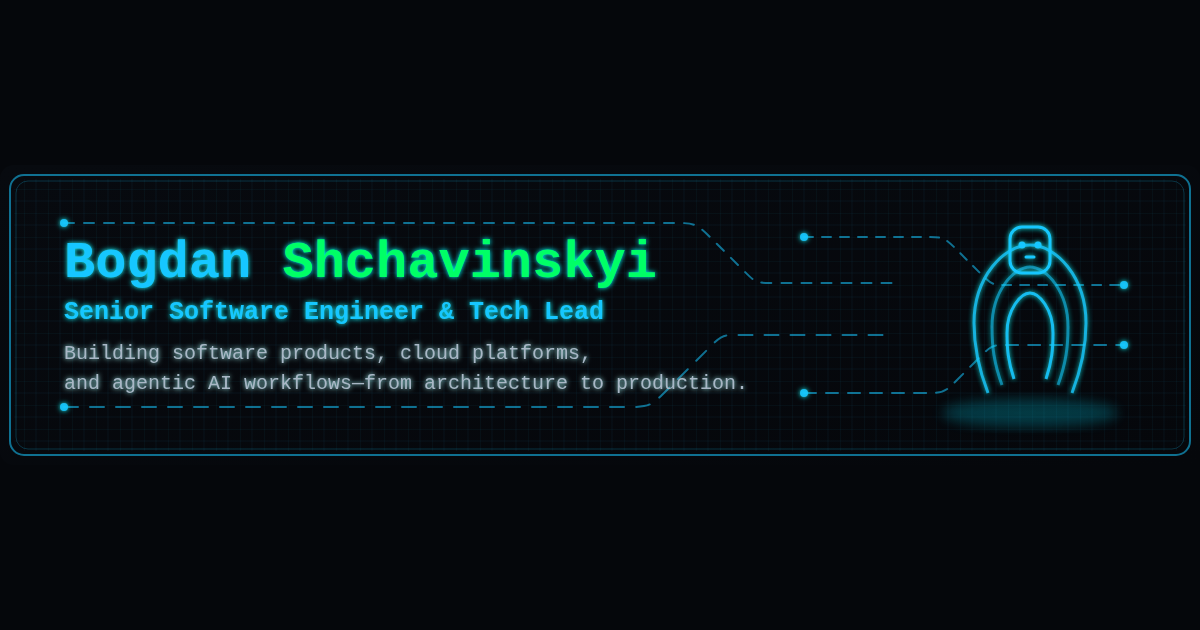
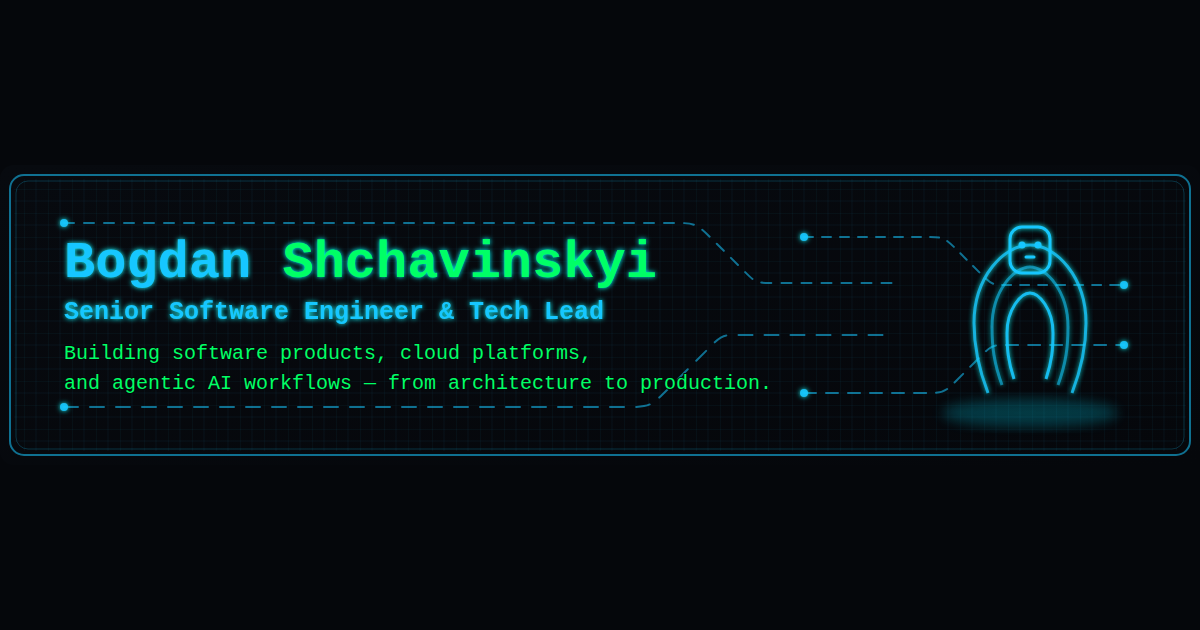
refine header contrast and keep the profile in whoami

Changed region(s): [[0.0308, 0.5429, 0.6475, 0.6333]]

diff --git a/src/modules/terminal/commands/resumeCommand.tsx b/src/modules/terminal/commands/resumeCommand.tsx
@@ -3,16 +3,10 @@ import Link from '@mui/material/Link';
 import Typography from '@mui/material/Typography';
 
 import { appConfig, profile } from '@/config';
-import { contentHref } from '@/modules/navigation';
 
 import type { CommandHandler } from '../types';
 import { commandStyles } from './styles';
 import { resumeStyles } from './resumeStyles';
-
-const certifications = [
-  { image: 'cka.svg', title: 'Certified Kubernetes Administrator (CKA)' },
-  { image: 'ckad.svg', title: 'Certified Kubernetes Application Developer (CKAD)' },
-] as const;
 
 export const resumeCommand: CommandHandler = () => {
   return (
@@ -38,78 +32,6 @@ export const resumeCommand: CommandHandler = () => {
           [View LinkedIn profile]
         </Link>
       </Box>
-      <Typography sx={commandStyles.text}>
-        8+ years building software, with experience leading engineering teams. I work across product
-        development, architecture, cloud infrastructure, and production delivery, with a focus on
-        clear design, performance, and reliability.
-      </Typography>
-      <Typography component="h2" sx={resumeStyles.sectionTitle}>
-        What I work on
-      </Typography>
-      <Box component="ul" sx={resumeStyles.list}>
-        <li>
-          <strong>Software products & technical leadership:</strong> system design, hands-on
-          implementation, code reviews, and delivery across engineering teams.
-        </li>
-        <li>
-          <strong>Platform engineering & DevOps:</strong> Kubernetes, AWS, CI/CD, observability, and
-          reliable releases.
-        </li>
-        <li>
-          <strong>Agentic AI workflows:</strong> local models, coding-agent integrations, custom MCP
-          tools, web search, and repository knowledge retrieval.
-        </li>
-      </Box>
-      <Typography component="h2" sx={resumeStyles.sectionTitle}>
-        Main technologies
-      </Typography>
-      <Typography sx={commandStyles.text}>
-        TypeScript · Node.js · Go · React · AWS · Kubernetes · PostgreSQL · MongoDB · Redis ·
-        RabbitMQ · Prometheus · Grafana
-      </Typography>
-      <Typography component="h2" sx={resumeStyles.sectionTitle}>
-        Selected impact
-      </Typography>
-      <Box component="ul" sx={resumeStyles.list}>
-        <li>
-          Approximately $200K/year saved by replacing DocuSign with an in-house eSignature
-          application I took over and later led.
-        </li>
-        <li>
-          PDF generation reduced from around 2 minutes to 20 seconds by rewriting an AWS Lambda from
-          Node.js to Go.
-        </li>
-      </Box>
-      <Typography component="h2" sx={resumeStyles.sectionTitle}>
-        Certifications
-      </Typography>
-      <Typography sx={commandStyles.muted}>CNCF / The Linux Foundation</Typography>
-      <Box sx={resumeStyles.certifications}>
-        {certifications.map(({ image, title }) => (
-          <Box component="figure" key={image} sx={resumeStyles.certification}>
-            <Box
-              component="img"
-              src={`${appConfig.basePath}certifications/${image}`}
-              alt={title}
-              width={96}
-              height={96}
-              sx={resumeStyles.badge}
-            />
-            <Box component="figcaption">{title}</Box>
-          </Box>
-        ))}
-      </Box>
-      <Typography sx={commandStyles.text}>
-        See what I build in{' '}
-        <Link href={contentHref('projects')} sx={commandStyles.link}>
-          projects
-        </Link>
-        , or read my{' '}
-        <Link href={contentHref('blog')} sx={commandStyles.link}>
-          technical notes
-        </Link>
-        .
-      </Typography>
     </Box>
   );
 };

diff --git a/src/modules/terminal/commands/whoamiCommand.tsx b/src/modules/terminal/commands/whoamiCommand.tsx
@@ -1,7 +1,7 @@
 import Box from '@mui/material/Box';
 import Typography from '@mui/material/Typography';
 
-import { profile } from '@/config';
+import { appConfig, profile } from '@/config';
 
 import type { CommandHandler } from '../types';
 import { whoamiStyles } from './whoamiStyles';
@@ -14,13 +14,14 @@ const expertiseSections = [
     topics: ['Architecture', 'Performance', 'Scalability', 'Production reliability'],
   },
   {
-    title: '[ BACKEND & PLATFORM ]',
+    title: '[ SOFTWARE & PLATFORM ENGINEERING ]',
     description:
-      'I build backend services and operate cloud infrastructure, from event-driven integrations and databases to Kubernetes deployments, CI/CD, and observability.',
+      'I build applications and backend services and operate cloud infrastructure. My platform engineering and DevOps work covers Kubernetes deployments, CI/CD, and observability.',
     topics: [
       'TypeScript',
       'Node.js',
       'Go',
+      'React',
       'AWS',
       'Kubernetes',
       'PostgreSQL',
@@ -42,14 +43,11 @@ const expertiseSections = [
       'MCP integrations',
     ],
   },
-  {
-    title: '[ CERTIFICATIONS ]',
-    description: 'CNCF / The Linux Foundation',
-    topics: [
-      'Certified Kubernetes Administrator (CKA)',
-      'Certified Kubernetes Application Developer (CKAD)',
-    ],
-  },
+] as const;
+
+const certifications = [
+  { image: 'cka.svg', title: 'Certified Kubernetes Administrator (CKA)' },
+  { image: 'ckad.svg', title: 'Certified Kubernetes Application Developer (CKAD)' },
 ] as const;
 
 const impactHighlights = [
@@ -83,8 +81,8 @@ export const whoamiCommand: CommandHandler = () => {
           performance, scalability, and production reliability.
         </Typography>
         <Typography sx={whoamiStyles.paragraph}>
-          This is where I share projects, technical notes, and lessons from building and running
-          software.
+          I work end to end, from product requirements and architecture through implementation,
+          delivery, and operation.
         </Typography>
       </Box>
 
@@ -103,6 +101,28 @@ export const whoamiCommand: CommandHandler = () => {
           </Box>
         </Box>
       ))}
+
+      <Box component="section" sx={whoamiStyles.section}>
+        <Typography component="h3" sx={whoamiStyles.sectionTitle}>
+          [ CERTIFICATIONS ]
+        </Typography>
+        <Typography sx={whoamiStyles.paragraph}>CNCF / The Linux Foundation</Typography>
+        <Box sx={whoamiStyles.certifications}>
+          {certifications.map(({ image, title }) => (
+            <Box component="figure" key={image} sx={whoamiStyles.certification}>
+              <Box
+                component="img"
+                src={`${appConfig.basePath}certifications/${image}`}
+                alt={title}
+                width={96}
+                height={96}
+                sx={whoamiStyles.badge}
+              />
+              <Box component="figcaption">{title}</Box>
+            </Box>
+          ))}
+        </Box>
+      </Box>
 
       <Box component="section" sx={whoamiStyles.section}>
         <Typography component="h3" sx={whoamiStyles.sectionTitle}>

diff --git a/index.html b/index.html
@@ -33,7 +33,7 @@
     <meta property="og:image:height" content="630" />
     <meta
       property="og:image:alt"
-      content="Bogdan Shchavinskyi — Senior Software Engineer &amp; Tech Lead — Building software products, cloud platforms, and agentic AI workflows—from architecture to production."
+      content="Bogdan Shchavinskyi — Senior Software Engineer &amp; Tech Lead — Building software products, cloud platforms, and agentic AI workflows — from architecture to production."
     />
     <meta name="twitter:card" content="summary_large_image" />
     <meta
@@ -47,7 +47,7 @@
     <meta name="twitter:image" content="https://master-bogdan.github.io/social-preview.png" />
     <meta
       name="twitter:image:alt"
-      content="Bogdan Shchavinskyi — Senior Software Engineer &amp; Tech Lead — Building software products, cloud platforms, and agentic AI workflows—from architecture to production."
+      content="Bogdan Shchavinskyi — Senior Software Engineer &amp; Tech Lead — Building software products, cloud platforms, and agentic AI workflows — from architecture to production."
     />
     <script type="application/ld+json">
       {
@@ -85,8 +85,8 @@
           performance, scalability, and production reliability.
         </p>
         <p>
-          Building software products, cloud platforms, and agentic AI workflows—from architecture to
-          production.
+          Building software products, cloud platforms, and agentic AI workflows — from architecture
+          to production.
         </p>
         <p>Projects, technical notes, and lessons from building and running software.</p>
         <p>

diff --git a/src/modules/terminal/components/Terminal/__tests__/routes.test.tsx b/src/modules/terminal/components/Terminal/__tests__/routes.test.tsx
@@ -45,16 +45,16 @@ describe('Terminal public routes', () => {
     expect(screen.getByRole('heading', { name: 'Neovim Practice' })).toBeInTheDocument();
   });
 
-  it('shows a short resume, local certification images, and a stable PDF download', () => {
+  it('keeps the resume focused on the CV and LinkedIn links', () => {
     render(<Terminal initialPath="/resume/" />);
     expect(screen.getByRole('heading', { name: 'Bogdan Shchavinskyi' })).toBeInTheDocument();
-    expect(screen.getByText('Platform engineering & DevOps:')).toBeInTheDocument();
-    expect(
-      screen.getByRole('img', { name: 'Certified Kubernetes Administrator (CKA)' }),
-    ).toHaveAttribute('src', '/certifications/cka.svg');
-    expect(
-      screen.getByRole('img', { name: 'Certified Kubernetes Application Developer (CKAD)' }),
-    ).toHaveAttribute('src', '/certifications/ckad.svg');
+    expect(screen.queryByText('What I work on')).not.toBeInTheDocument();
+    expect(screen.queryByText('Main technologies')).not.toBeInTheDocument();
+    expect(screen.queryByText('Certifications')).not.toBeInTheDocument();
+    expect(screen.getByRole('link', { name: '[View LinkedIn profile]' })).toHaveAttribute(
+      'href',
+      'https://www.linkedin.com/in/b-shchavinskyi-fullstack',
+    );
     expect(screen.getByRole('link', { name: '[Download PDF]' })).toHaveAttribute(
       'download',
       'Bogdan_Shchavinskyi_CV.pdf',

diff --git a/e2e/static-pages.e2e.spec.ts b/e2e/static-pages.e2e.spec.ts
@@ -66,15 +66,12 @@ test('includes all content URLs in the generated sitemap and serves certificatio
     expect(xml).toContain(`<loc>https://master-bogdan.github.io/${pathname}</loc>`);
   }
   await page.goto('resume/');
-  for (const name of [
-    'Certified Kubernetes Administrator (CKA)',
-    'Certified Kubernetes Application Developer (CKAD)',
-  ]) {
-    const image = page.getByRole('img', { name, exact: true });
-    await expect(image).toBeVisible();
-    const src = await image.getAttribute('src');
-    expect(src).toContain('/certifications/');
-    const response = await request.get(src!);
+  await expect(page.getByRole('link', { name: '[Download PDF]' })).toBeVisible();
+  await expect(page.getByRole('link', { name: '[View LinkedIn profile]' })).toBeVisible();
+  await expect(page.getByText('Certifications', { exact: true })).toHaveCount(0);
+  for (const filename of ['cka.svg', 'ckad.svg']) {
+    const imageUrl = new URL(`../certifications/${filename}`, page.url());
+    const response = await request.get(imageUrl.href);
     expect(response.status()).toBe(200);
     expect(response.headers()['content-type']).toContain('image/svg+xml');
   }

diff --git a/src/modules/terminal/components/Terminal/__tests__/Terminal.test.tsx b/src/modules/terminal/components/Terminal/__tests__/Terminal.test.tsx
@@ -68,6 +68,13 @@ describe('Terminal', () => {
     expect(screen.getByText('~8 GB → 700 MB')).toBeInTheDocument();
     expect(screen.getByText(/application I took over and later led/)).toBeInTheDocument();
     expect(screen.getByText('MCP integrations')).toBeInTheDocument();
+    expect(screen.getByText('React')).toBeInTheDocument();
+    expect(
+      screen.getByRole('img', { name: 'Certified Kubernetes Administrator (CKA)' }),
+    ).toHaveAttribute('src', '/certifications/cka.svg');
+    expect(
+      screen.getByRole('img', { name: 'Certified Kubernetes Application Developer (CKAD)' }),
+    ).toHaveAttribute('src', '/certifications/ckad.svg');
     expect(screen.getByText('Certified Kubernetes Administrator (CKA)')).toBeInTheDocument();
     expect(
       screen.getByText('Certified Kubernetes Application Developer (CKAD)'),

diff --git a/src/modules/terminal/commands/resumeStyles.ts b/src/modules/terminal/commands/resumeStyles.ts
@@ -10,15 +10,4 @@ export const resumeStyles = {
   name: { fontFamily: 'var(--font-mono)', fontSize: '18px', color: ThemeColors.CYAN, mb: 0.5 },
   role: { fontFamily: 'var(--font-mono)', fontSize: '14px', color: ThemeColors.GREEN, mb: 1.5 },
   links: { display: 'flex', flexWrap: 'wrap', gap: 2, my: 1.5 },
-  sectionTitle: {
-    fontFamily: 'var(--font-mono)',
-    fontSize: '15px',
-    color: ThemeColors.CYAN,
-    mt: 2.5,
-    mb: 1,
-  },
-  list: { pl: 2.5, mt: 0, '& li': { mb: 1 } },
-  certifications: { display: 'flex', flexWrap: 'wrap', gap: 3, my: 2 },
-  certification: { m: 0, maxWidth: '220px', fontSize: '12px' },
-  badge: { display: 'block', mb: 1 },
 } as const;

diff --git a/e2e/terminal.e2e.spec.ts b/e2e/terminal.e2e.spec.ts
@@ -32,7 +32,7 @@ test('boots, accepts keyboard commands, and opens a Markdown post', async ({ pag
 
   await expect(
     page.getByAltText(
-      'Bogdan Shchavinskyi — Senior Software Engineer & Tech Lead — Building software products, cloud platforms, and agentic AI workflows—from architecture to production.',
+      'Bogdan Shchavinskyi — Senior Software Engineer & Tech Lead — Building software products, cloud platforms, and agentic AI workflows — from architecture to production.',
     ),
   ).toHaveAttribute('src', new URL('banner.svg', siteUrl).pathname);
 

diff --git a/src/config/profile.ts b/src/config/profile.ts
@@ -2,7 +2,7 @@ export const profile = {
   name: 'Bogdan Shchavinskyi',
   role: 'Senior Software Engineer & Tech Lead',
   tagline:
-    'Building software products, cloud platforms, and agentic AI workflows—from architecture to production.',
+    'Building software products, cloud platforms, and agentic AI workflows — from architecture to production.',
   description:
     "Bogdan Shchavinskyi's engineering portfolio and blog: software products, cloud platforms, DevOps, platform engineering, and agentic AI workflows.",
   url: 'https://master-bogdan.github.io/',

diff --git a/src/modules/terminal/components/Banner/__tests__/Banner.test.tsx b/src/modules/terminal/components/Banner/__tests__/Banner.test.tsx
@@ -9,7 +9,7 @@ describe('Banner', () => {
 
     expect(
       screen.getByRole('img', {
-        name: 'Bogdan Shchavinskyi — Senior Software Engineer & Tech Lead — Building software products, cloud platforms, and agentic AI workflows—from architecture to production.',
+        name: 'Bogdan Shchavinskyi — Senior Software Engineer & Tech Lead — Building software products, cloud platforms, and agentic AI workflows — from architecture to production.',
       }),
     ).toHaveAttribute('src', '/banner.svg');
   });

diff --git a/src/app/pageMetadata.ts b/src/app/pageMetadata.ts
@@ -25,7 +25,7 @@ const overviewContent: Readonly<Record<string, PageContent>> = {
   resume: {
     heading: 'Resume',
     description:
-      'Meet Bogdan Shchavinskyi: Senior Software Engineer & Tech Lead working across software products, cloud platforms, and agentic AI workflows.',
+      "Download Bogdan Shchavinskyi's CV or view his professional experience on LinkedIn. Senior Software Engineer & Tech Lead.",
     schemaType: 'Person',
   },
   blog: {

diff --git a/src/modules/terminal/commands/whoamiStyles.ts b/src/modules/terminal/commands/whoamiStyles.ts
@@ -74,6 +74,15 @@ export const whoamiStyles = {
     px: 1,
     py: 0.35,
   },
+  certifications: { display: 'flex', flexWrap: 'wrap', gap: 3 },
+  certification: {
+    ...terminalText,
+    m: 0,
+    maxWidth: '220px',
+    fontSize: '12px',
+    color: ThemeColors.WHITE,
+  },
+  badge: { display: 'block', mb: 1 },
   impactGrid: {
     display: 'grid',
     gridTemplateColumns: { xs: '1fr', sm: 'repeat(3, minmax(0, 1fr))' },
